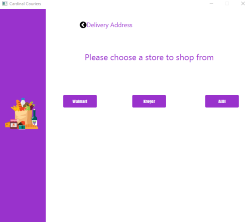
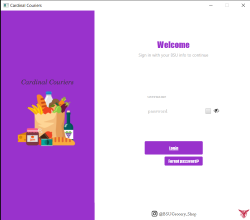
finishes portfolio section

diff --git a/index.html b/index.html
@@ -23,7 +23,7 @@
             <div class="slides-container">
                 <img src="img/portfolio/apfp_app_pics/apfp_app_1_hand.jpg" alt="Apfp App Welcome Screen">
                 <img src="img/portfolio/apfp_app_pics/apfp_laptop_direct.jpg" alt="Apfp App Welcome on Laptop">
-                <img src="img/portfolio/cc_pics/cc_home.png" alt="Brian Walker">
+                <img src="img/portfolio/cc_pics/cc_login.png" alt="Brian Walker">
             </div>
         </div>
 
@@ -180,14 +180,14 @@
                    <div class="itemsContainer">
                       <ul class="items">
 
-                          <li class="projects col-xs-6 col-sm-4 col-md-3 col-lg-3">
+                          <li onclick="" class="projects col-xs-6 col-sm-4 col-md-3 col-lg-3">
                               <div class="item">
-                                  <img src="img/portfolio/apfp_app_pics/thumbnails/apfp_app_1_hand.jpg">
+                                  <img src="img/portfolio/apfp_app_pics/thumbnails/apfp_app_2_hands.jpg">
                                   <div class="icons">
-                                      <a href="img/portfolio/apfp_app_pics/apfp_app_1_hand.jpg" title="View Image" class="openButton" data-fancybox data-caption="APFP App Welcome Screen">
+                                      <a href="img/portfolio/apfp_app_pics/apfp_app_2_hands.jpg" title="View Image" class="openButton" data-fancybox data-caption="APFP App Welcome Screen">
                                          <i class="fa fa-search"></i> 
                                       </a>
-                                      <a href="" target="_blank" title="Go To Image" class="projectLink">
+                                      <a href="https://github.com/BrianJr03/apfp_app" target="_blank" title="Go To Image" class="projectLink">
                                         <i class="fa fa-link"></i> 
                                      </a>
                                   </div>
@@ -195,14 +195,14 @@
                               </div>
                           </li>
 
-                          <li class="projects col-xs-6 col-sm-4 col-md-3 col-lg-3">
+                          <li onclick="" class="projects col-xs-6 col-sm-4 col-md-3 col-lg-3">
                             <div class="item">
-                                <img src="img/portfolio/apfp_app_pics/thumbnails/apfp_app_1_hand.jpg">
+                                <img src="img/portfolio/apfp_app_pics/thumbnails/apfp_laptop_direct.jpg">
                                 <div class="icons">
-                                    <a href="img/portfolio/apfp_app_pics/apfp_app_1_hand.jpg" title="View Image" class="openButton" data-fancybox data-caption="APFP App Welcome Screen">
+                                    <a href="img/portfolio/apfp_app_pics/apfp_laptop_direct.jpg" title="View Image" class="openButton" data-fancybox data-caption="APFP App Welcome Screen">
                                        <i class="fa fa-search"></i> 
                                     </a>
-                                    <a href="" target="_blank" title="Go To Image" class="projectLink">
+                                    <a href="https://github.com/BrianJr03/apfp_app" target="_blank" title="Go To Image" class="projectLink">
                                       <i class="fa fa-link"></i> 
                                    </a>
                                 </div>
@@ -211,14 +211,14 @@
                         </li>
 
                         
-                        <li class="projects col-xs-6 col-sm-4 col-md-3 col-lg-3">
+                        <li onclick="" class="projects col-xs-6 col-sm-4 col-md-3 col-lg-3">
                             <div class="item">
-                                <img src="img/portfolio/apfp_app_pics/thumbnails/apfp_app_1_hand.jpg">
+                                <img src="img/portfolio/apfp_app_pics/thumbnails/apfp_laptop_side.jpg">
                                 <div class="icons">
-                                    <a href="img/portfolio/apfp_app_pics/apfp_app_1_hand.jpg" title="View Image" class="openButton" data-fancybox data-caption="APFP App Welcome Screen">
+                                    <a href="img/portfolio/apfp_app_pics/apfp_laptop_side.jpg" title="View Image" class="openButton" data-fancybox data-caption="APFP App Welcome Screen">
                                        <i class="fa fa-search"></i> 
                                     </a>
-                                    <a href="" target="_blank" title="Go To Image" class="projectLink">
+                                    <a href="https://github.com/BrianJr03/apfp_app" target="_blank" title="Go To Image" class="projectLink">
                                       <i class="fa fa-link"></i> 
                                    </a>
                                 </div>
@@ -226,14 +226,14 @@
                             </div>
                         </li>
                         
-                        <li class="projects col-xs-6 col-sm-4 col-md-3 col-lg-3">
+                        <li onclick="" class="projects col-xs-6 col-sm-4 col-md-3 col-lg-3">
                             <div class="item">
-                                <img src="img/portfolio/apfp_app_pics/thumbnails/apfp_app_1_hand.jpg">
+                                <img src="img/portfolio/cc_pics/thumbnails/cc_login.png">
                                 <div class="icons">
-                                    <a href="img/portfolio/apfp_app_pics/apfp_app_1_hand.jpg" title="View Image" class="openButton" data-fancybox data-caption="APFP App Welcome Screen">
+                                    <a href="img/portfolio/cc_pics/cc_login.png" title="View Image" class="openButton" data-fancybox data-caption="APFP App Welcome Screen">
                                        <i class="fa fa-search"></i> 
                                     </a>
-                                    <a href="" target="_blank" title="Go To Image" class="projectLink">
+                                    <a href="https://github.com/BrianJr03/cardinal-couriers" target="_blank" title="Go To Image" class="projectLink">
                                       <i class="fa fa-link"></i> 
                                    </a>
                                 </div>
@@ -241,14 +241,15 @@
                             </div>
                         </li>
 
-                        <li class="projects col-xs-6 col-sm-4 col-md-3 col-lg-3">
+
+                        <li onclick="" class="projects col-xs-6 col-sm-4 col-md-3 col-lg-3">
                             <div class="item">
-                                <img src="img/portfolio/apfp_app_pics/thumbnails/apfp_app_1_hand.jpg">
+                                <img src="img/portfolio/cc_pics/thumbnails/cc_item_selection.png">
                                 <div class="icons">
-                                    <a href="img/portfolio/apfp_app_pics/apfp_app_1_hand.jpg" title="View Image" class="openButton" data-fancybox data-caption="APFP App Welcome Screen">
+                                    <a href="img/portfolio/cc_pics/cc_item_selection.png" title="View Image" class="openButton" data-fancybox data-caption="APFP App Welcome Screen">
                                        <i class="fa fa-search"></i> 
                                     </a>
-                                    <a href="" target="_blank" title="Go To Image" class="projectLink">
+                                    <a href="https://github.com/BrianJr03/cardinal-couriers" target="_blank" title="Go To Image" class="projectLink">
                                       <i class="fa fa-link"></i> 
                                    </a>
                                 </div>
@@ -256,14 +257,14 @@
                             </div>
                         </li>
 
-                        <li class="projects col-xs-6 col-sm-4 col-md-3 col-lg-3">
+                        <li onclick="" class="projects col-xs-6 col-sm-4 col-md-3 col-lg-3">
                             <div class="item">
-                                <img src="img/portfolio/apfp_app_pics/thumbnails/apfp_app_1_hand.jpg">
+                                <img src="img/portfolio/cc_pics/thumbnails/cc_post_order.png">
                                 <div class="icons">
-                                    <a href="img/portfolio/apfp_app_pics/apfp_app_1_hand.jpg" title="View Image" class="openButton" data-fancybox data-caption="APFP App Welcome Screen">
+                                    <a href="img/portfolio/cc_pics/cc_post_order.png" title="View Image" class="openButton" data-fancybox data-caption="APFP App Welcome Screen">
                                        <i class="fa fa-search"></i> 
                                     </a>
-                                    <a href="" target="_blank" title="Go To Image" class="projectLink">
+                                    <a href="https://github.com/BrianJr03/cardinal-couriers" target="_blank" title="Go To Image" class="projectLink">
                                       <i class="fa fa-link"></i> 
                                    </a>
                                 </div>
@@ -271,14 +272,14 @@
                             </div>
                         </li>
 
-                        <li class="projects col-xs-6 col-sm-4 col-md-3 col-lg-3">
+                        <li class="me col-xs-6 col-sm-4 col-md-3 col-lg-3">
                             <div class="item">
-                                <img src="img/portfolio/apfp_app_pics/thumbnails/apfp_app_1_hand.jpg">
+                                <img src="img/portfolio/apfp_app_pics/thumbnails/Brian Walker 2.jpg">
                                 <div class="icons">
-                                    <a href="img/portfolio/apfp_app_pics/apfp_app_1_hand.jpg" title="View Image" class="openButton" data-fancybox data-caption="APFP App Welcome Screen">
+                                    <a href="img/portfolio/apfp_app_pics/Brian Walker 2.jpg" title="View Image" class="openButton" data-fancybox data-caption="APFP App Welcome Screen">
                                        <i class="fa fa-search"></i> 
                                     </a>
-                                    <a href="" target="_blank" title="Go To Image" class="projectLink">
+                                    <a href="https://www.linkedin.com/in/brianjr03/" target="_blank" title="Go To Image" class="projectLink">
                                       <i class="fa fa-link"></i> 
                                    </a>
                                 </div>
@@ -286,104 +287,14 @@
                             </div>
                         </li>
 
-                        <li class="projects col-xs-6 col-sm-4 col-md-3 col-lg-3">
+                        <li class="me col-xs-6 col-sm-4 col-md-3 col-lg-3">
                             <div class="item">
-                                <img src="img/portfolio/apfp_app_pics/thumbnails/apfp_app_1_hand.jpg">
+                                <img src="img/portfolio/apfp_app_pics/thumbnails/group_pic_still.jpg">
                                 <div class="icons">
-                                    <a href="img/portfolio/apfp_app_pics/apfp_app_1_hand.jpg" title="View Image" class="openButton" data-fancybox data-caption="APFP App Welcome Screen">
+                                    <a href="img/portfolio/apfp_app_pics/group_pic_still.jpg" title="View Image" class="openButton" data-fancybox data-caption="APFP App Welcome Screen">
                                        <i class="fa fa-search"></i> 
                                     </a>
-                                    <a href="" target="_blank" title="Go To Image" class="projectLink">
-                                      <i class="fa fa-link"></i> 
-                                   </a>
-                                </div>
-                                <div class="imageOverlay"></div>
-                            </div>
-                        </li>
-
-                        <li class="projects col-xs-6 col-sm-4 col-md-3 col-lg-3">
-                            <div class="item">
-                                <img src="img/portfolio/apfp_app_pics/thumbnails/apfp_app_1_hand.jpg">
-                                <div class="icons">
-                                    <a href="img/portfolio/apfp_app_pics/apfp_app_1_hand.jpg" title="View Image" class="openButton" data-fancybox data-caption="APFP App Welcome Screen">
-                                       <i class="fa fa-search"></i> 
-                                    </a>
-                                    <a href="" target="_blank" title="Go To Image" class="projectLink">
-                                      <i class="fa fa-link"></i> 
-                                   </a>
-                                </div>
-                                <div class="imageOverlay"></div>
-                            </div>
-                        </li>
-
-                        <li class="projects col-xs-6 col-sm-4 col-md-3 col-lg-3">
-                            <div class="item">
-                                <img src="img/portfolio/apfp_app_pics/thumbnails/apfp_app_1_hand.jpg">
-                                <div class="icons">
-                                    <a href="img/portfolio/apfp_app_pics/apfp_app_1_hand.jpg" title="View Image" class="openButton" data-fancybox data-caption="APFP App Welcome Screen">
-                                       <i class="fa fa-search"></i> 
-                                    </a>
-                                    <a href="" target="_blank" title="Go To Image" class="projectLink">
-                                      <i class="fa fa-link"></i> 
-                                   </a>
-                                </div>
-                                <div class="imageOverlay"></div>
-                            </div>
-                        </li>
-
-                        <li class="projects col-xs-6 col-sm-4 col-md-3 col-lg-3">
-                            <div class="item">
-                                <img src="img/portfolio/apfp_app_pics/thumbnails/apfp_app_1_hand.jpg">
-                                <div class="icons">
-                                    <a href="img/portfolio/apfp_app_pics/apfp_app_1_hand.jpg" title="View Image" class="openButton" data-fancybox data-caption="APFP App Welcome Screen">
-                                       <i class="fa fa-search"></i> 
-                                    </a>
-                                    <a href="" target="_blank" title="Go To Image" class="projectLink">
-                                      <i class="fa fa-link"></i> 
-                                   </a>
-                                </div>
-                                <div class="imageOverlay"></div>
-                            </div>
-                        </li>
-
-                        <li class="projects col-xs-6 col-sm-4 col-md-3 col-lg-3">
-                            <div class="item">
-                                <img src="img/portfolio/apfp_app_pics/thumbnails/apfp_app_1_hand.jpg">
-                                <div class="icons">
-                                    <a href="img/portfolio/apfp_app_pics/apfp_app_1_hand.jpg" title="View Image" class="openButton" data-fancybox data-caption="APFP App Welcome Screen">
-                                       <i class="fa fa-search"></i> 
-                                    </a>
-                                    <a href="" target="_blank" title="Go To Image" class="projectLink">
-                                      <i class="fa fa-link"></i> 
-                                   </a>
-                                </div>
-                                <div class="imageOverlay"></div>
-                            </div>
-                        </li>
-
-                        <li class="projects col-xs-6 col-sm-4 col-md-3 col-lg-3">
-                            <div class="item">
-                                <img src="img/portfolio/apfp_app_pics/thumbnails/apfp_app_1_hand.jpg">
-                                <div class="icons">
-                                    <a href="img/portfolio/apfp_app_pics/apfp_app_1_hand.jpg" title="View Image" class="openButton" data-fancybox data-caption="APFP App Welcome Screen">
-                                       <i class="fa fa-search"></i> 
-                                    </a>
-                                    <a href="" target="_blank" title="Go To Image" class="projectLink">
-                                      <i class="fa fa-link"></i> 
-                                   </a>
-                                </div>
-                                <div class="imageOverlay"></div>
-                            </div>
-                        </li>
-
-                        <li class="projects col-xs-6 col-sm-4 col-md-3 col-lg-3">
-                            <div class="item">
-                                <img src="img/portfolio/apfp_app_pics/thumbnails/apfp_app_1_hand.jpg">
-                                <div class="icons">
-                                    <a href="img/portfolio/apfp_app_pics/apfp_app_1_hand.jpg" title="View Image" class="openButton" data-fancybox data-caption="APFP App Welcome Screen">
-                                       <i class="fa fa-search"></i> 
-                                    </a>
-                                    <a href="" target="_blank" title="Go To Image" class="projectLink">
+                                    <a href="https://www.linkedin.com/posts/ball-state-computer-science_agile-communication-scrum-activity-6907725081381085184-9GSw?utm_source=linkedin_share&utm_medium=member_desktop_web" target="_blank" title="Go To Image" class="projectLink">
                                       <i class="fa fa-link"></i> 
                                    </a>
                                 </div>

diff --git a/js/script.js b/js/script.js
@@ -45,12 +45,11 @@ $(document).ready(function() {
         if (window.pageYOffset > statsTopOffset - $(window).height() + 90) {
             $('.statsNum').fadeIn(1500);
         }
-
         if (window.pageYOffset > aboutMeTopOffset - $(window).height() + 90) {
             $('.aboutMeParagraph').fadeIn(1500);
         }
     });
-    $("[data-fancybox]").fancybox();
+    if(jQuery().fancybox) { $("[data-fancybox]").fancybox(); } 
     $(".items").isotope({
         filter: '*',
         animationOptions: {
@@ -58,5 +57,19 @@ $(document).ready(function() {
             easing: 'linear',
             queue: false
         }
-    })
+    });
+    $("#filters a").click(function() {
+        $("#filters .current").removeClass("current");
+        $(this).addClass("current");
+        var selector = $(this).attr("data-filter");
+        $(".items").isotope({
+            filter: selector,
+            animationOptions: {
+                duration: 1500,
+                easing: 'linear',
+                queue: false
+            }
+        });
+        return false;
+    });
 });

diff --git a/css/styles.css b/css/styles.css
@@ -196,6 +196,7 @@ a {
 
 .items li img {
     width: 100%;
+    transition: all 0.2s linear, 1s;
 }
 
 .items .item {
@@ -262,3 +263,12 @@ a {
 .items .item:hover .projectLink {
    right: 0px;
 }
+
+.items .item:hover img {
+    transform: scale(1.05, 1.05);
+}
+
+.items {
+    padding: 0;
+}
+
